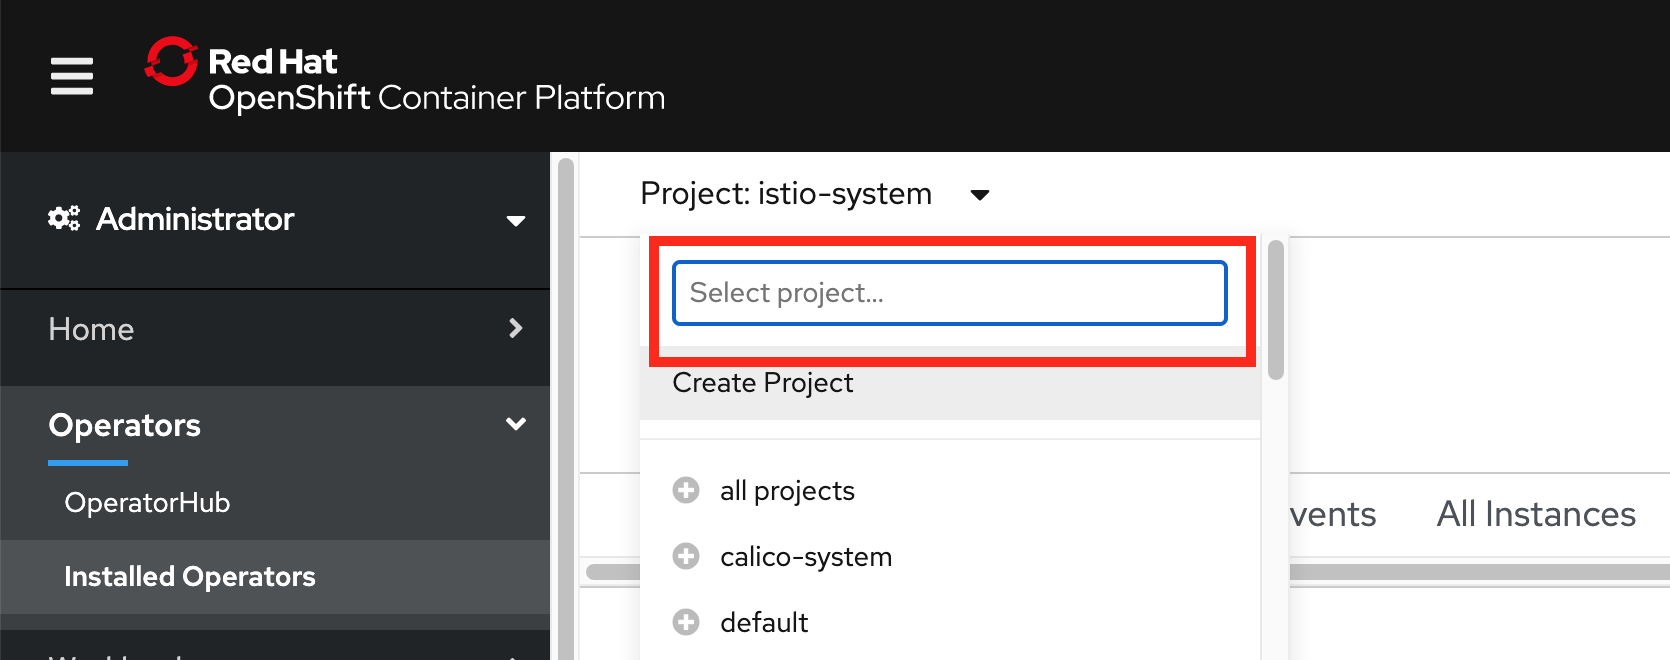
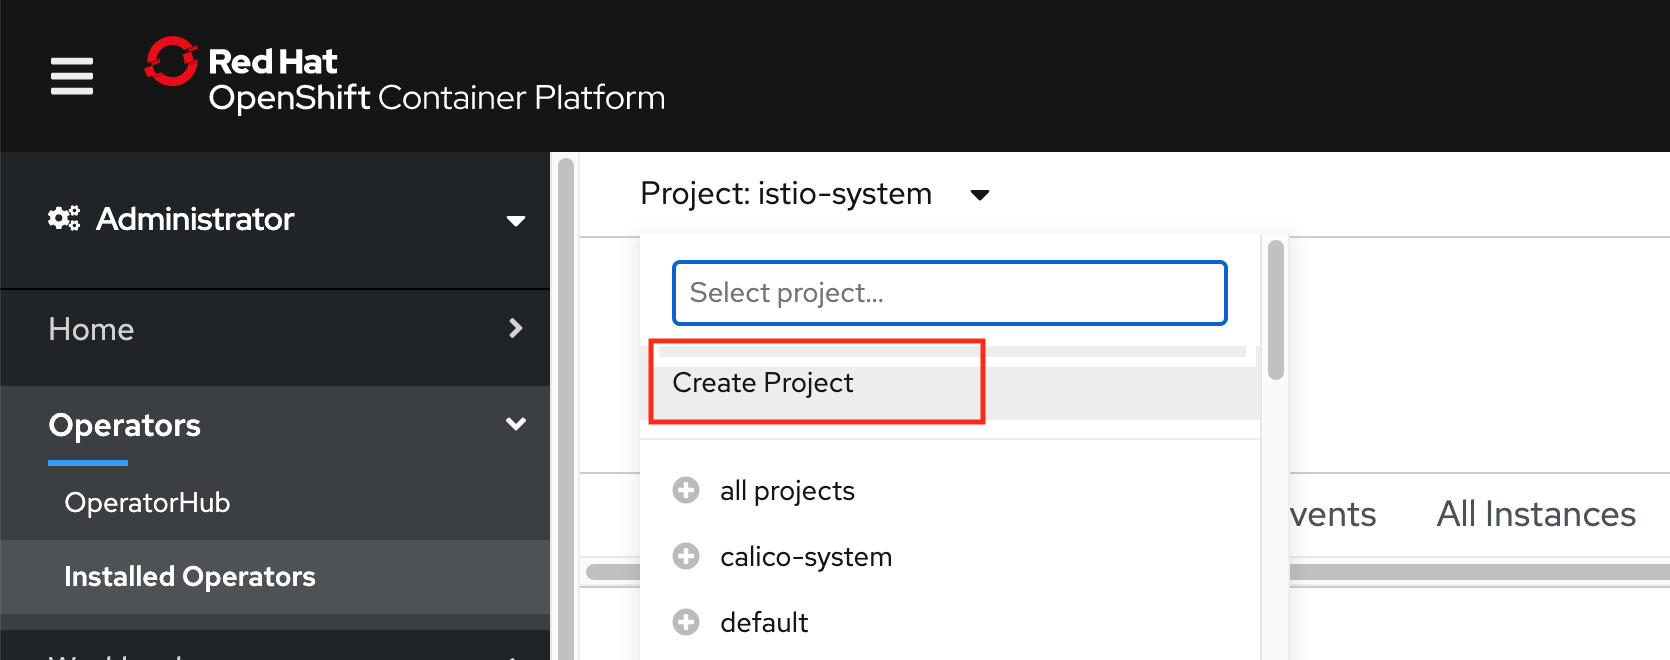
couple small cleanup

Changed region(s): [[0.3737, 0.3333, 0.7784, 0.6667]]

diff --git a/workshop/istio101/exercise-2/README.md b/workshop/istio101/exercise-2/README.md
@@ -42,17 +42,9 @@ Once complete, your "Installed Operators" screen will show these operators insta
 
 ## Step 3: Control Plane and Member Roll
 
-Continue to follow the [instructions](https://docs.openshift.com/container-platform/4.3/service_mesh/service_mesh_install/installing-ossm.html#ossm-operatorhub-install_installing-ossm) to create the **Service Mesh Control Plane** and the **Service Mesh Member Roll**. You will need to create a new project named `istio-system`. Accept the default yaml file for Use `guestbook-mesh` in the yaml file for the 
-
-
 In this step, we'll use the OSSM operator to create two new instance - a Control Plane and a Service Mesh Member Roll. we'll install the control plane into the `istio-system` project
 
-Create a new project called `istio-system`
-
-![screenshot](../README_images/create-project.png)
-
-
-After creation, select the `istio-system` project so that it is active. Then selected **Installed Operators -> Red Hat OpenShift Service Mesh**. Note that it may take a few seconds for the installed operators to be copied over to the new project.
+Create a new project called `istio-system`. After creation, select the `istio-system` project so that it is active. Then selected **Installed Operators -> Red Hat OpenShift Service Mesh**. Note that it may take a few seconds for the installed operators to be copied over to the new project.
 
 - Install the Control Plane. No changes from the default template are needed.
 

diff --git a/workshop/istio101/setup.md b/workshop/istio101/setup.md
@@ -10,3 +10,9 @@
     ```
 
     This is the working directory for the workshop. You will use the example `.yaml` files that are located in the `workshop/plans` directory in the following exercises.
+
+2. Create a new project
+
+    ```shell
+    oc new-project guestbook-mesh
+    ```
